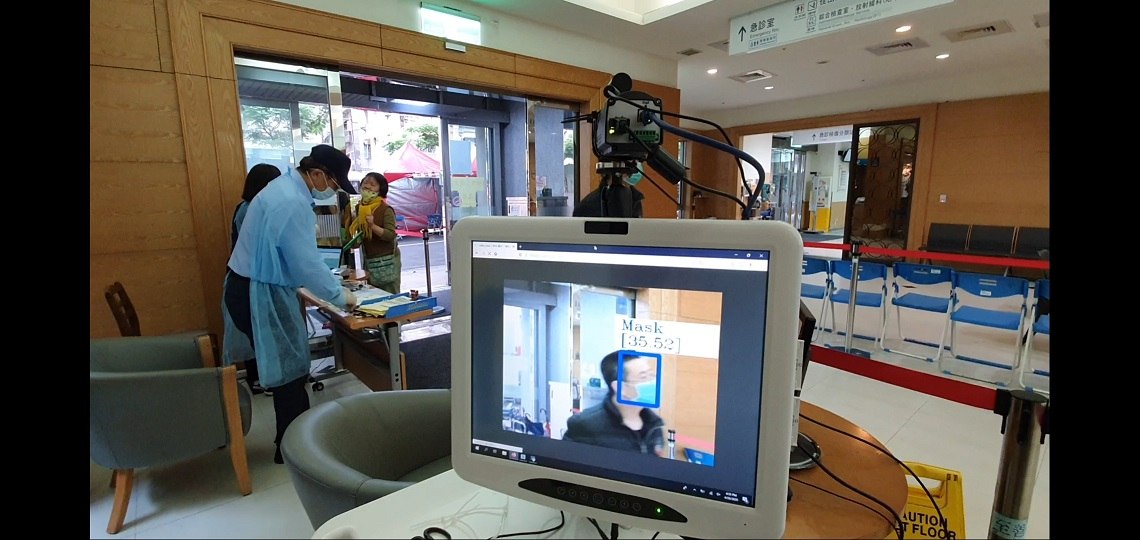
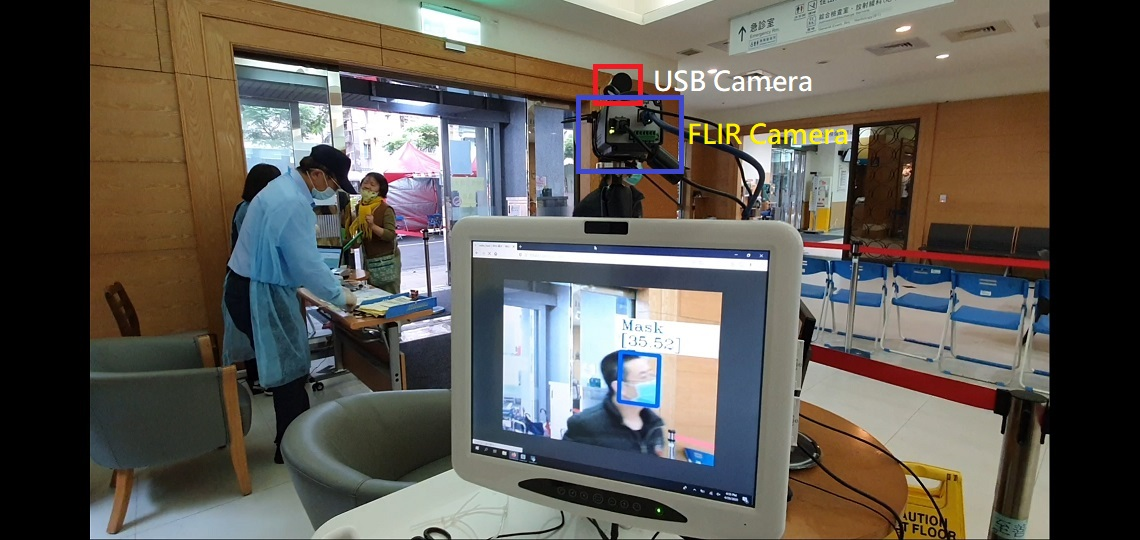
minor fixes

Changed region(s): [[0.4912, 0.1185, 0.7675, 0.3259]]

diff --git a/Host_PC/README.md b/Host_PC/README.md
@@ -25,6 +25,6 @@
 # Step 5: (On Host PC): Start viewing live detection!
 1. open any browser and go to: **"127.0.0.1:8432/video_feed"** to view live facial mask detection along with human forehead temperature detection
 
-![Detection In Action](/media/Detection_In_Action_1.jpg)
+![Detection In Action](/media/Detection_In_Action_2.jpg)
 
 # IMPORTANT: make sure your thermal camera is set to output "uint16" thermal data array
